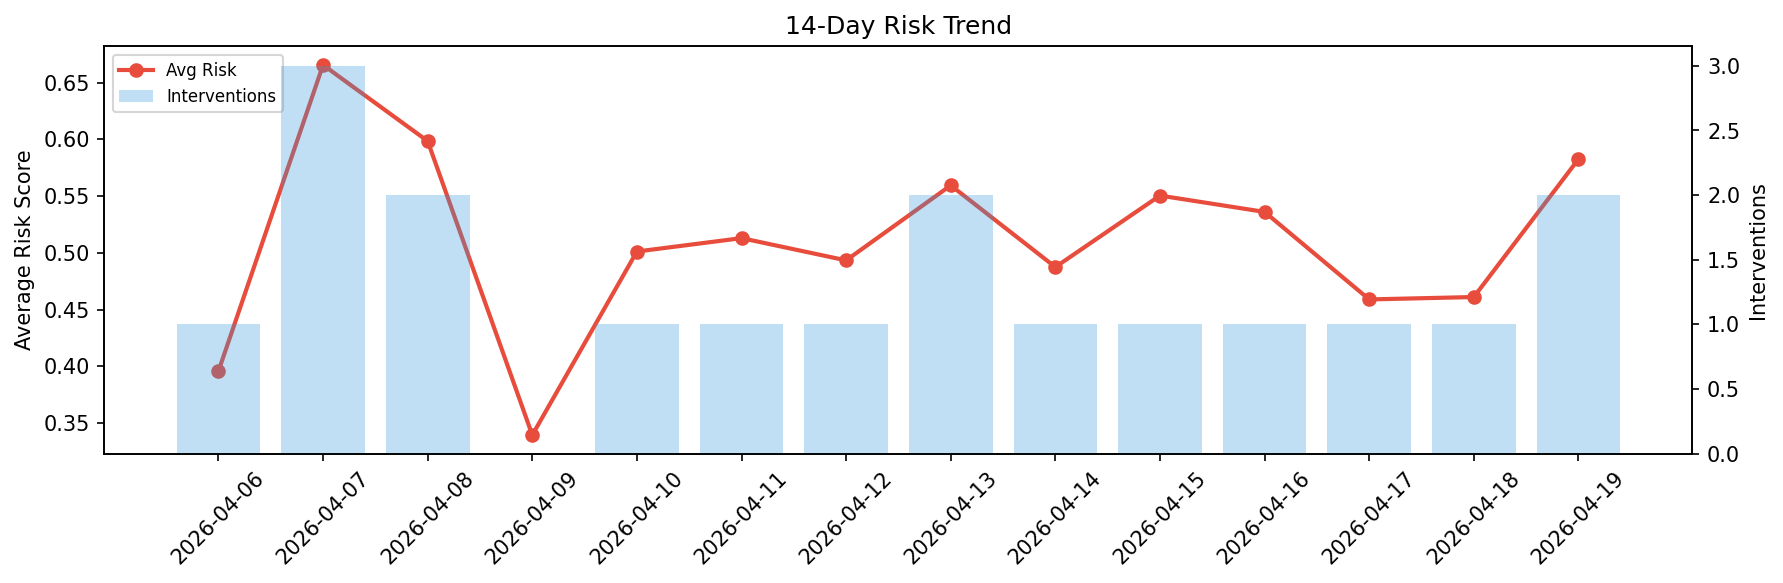
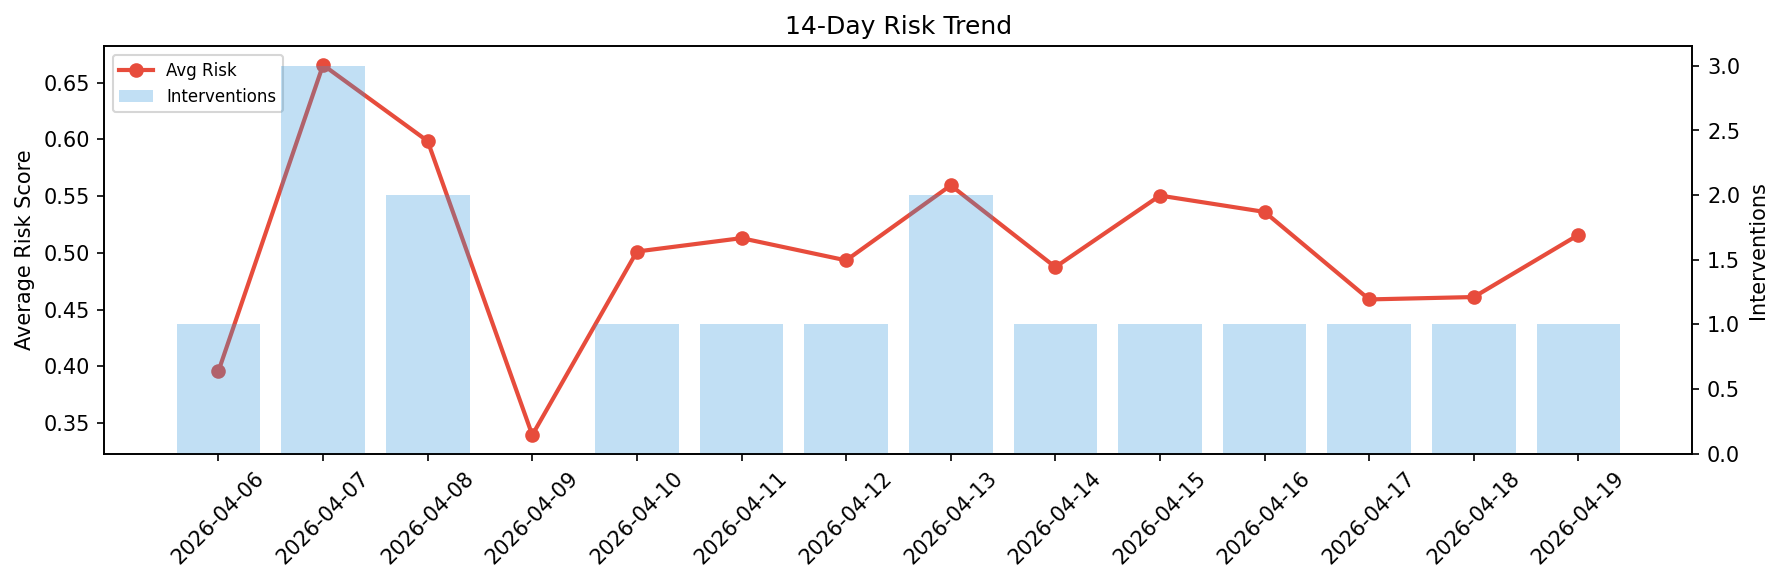
agent-improvement: daily cycle 2026-04-19T14:59

Changed region(s): [[0.8329, 0.247, 0.9254, 0.5557]]

diff --git a/logs/2026-04-19.md b/logs/2026-04-19.md
@@ -1,6 +1,6 @@
 # Agent Improvement Report — 2026-04-19
 
-**Cycle ID:** `5b38e896` | **Avg Risk:** 0.5825 | **Interventions:** 2/4
+**Cycle ID:** `572243ed` | **Avg Risk:** 0.5158 | **Interventions:** 1/4
 
 ![Dashboard](2026-04-19_dashboard.png)
 
@@ -10,18 +10,18 @@
 
 | Domain | Risk Score | Decision | Alerts |
 |--------|-----------|----------|--------|
-| code_review | 0.6733 | intervene | complexity, duplication |
-| incident_response | 0.4212 | monitor | none |
-| data_pipeline | 0.5286 | monitor | schema_drift |
-| deployment | 0.7068 | intervene | rollback_rate, canary_error |
+| code_review | 0.723 | intervene | duplication, coverage |
+| incident_response | 0.4042 | monitor | none |
+| data_pipeline | 0.4014 | monitor | none |
+| deployment | 0.5346 | monitor | none |
 
 ## Delta vs Yesterday
 
 | Domain | Today | Yesterday | Change |
 |--------|-------|-----------|--------|
-| code_review | 0.6733 | 0.363 | 📈 85.5% |
-| incident_response | 0.4212 | 0.603 | 📉 -30.1% |
-| data_pipeline | 0.5286 | 0.4181 | 📈 26.4% |
-| deployment | 0.7068 | 0.4599 | 📈 53.7% |
+| code_review | 0.723 | 0.363 | 📈 99.2% |
+| incident_response | 0.4042 | 0.603 | 📉 -33.0% |
+| data_pipeline | 0.4014 | 0.4181 | 📉 -4.0% |
+| deployment | 0.5346 | 0.4599 | 📈 16.2% |
 
-**Refinement:** `{'adjustment': 'tighten_thresholds', 'trend': 'degrading', 'window': 4}`
+**Refinement:** `{'adjustment': 'maintain', 'trend': 'improving', 'window': 4}`
